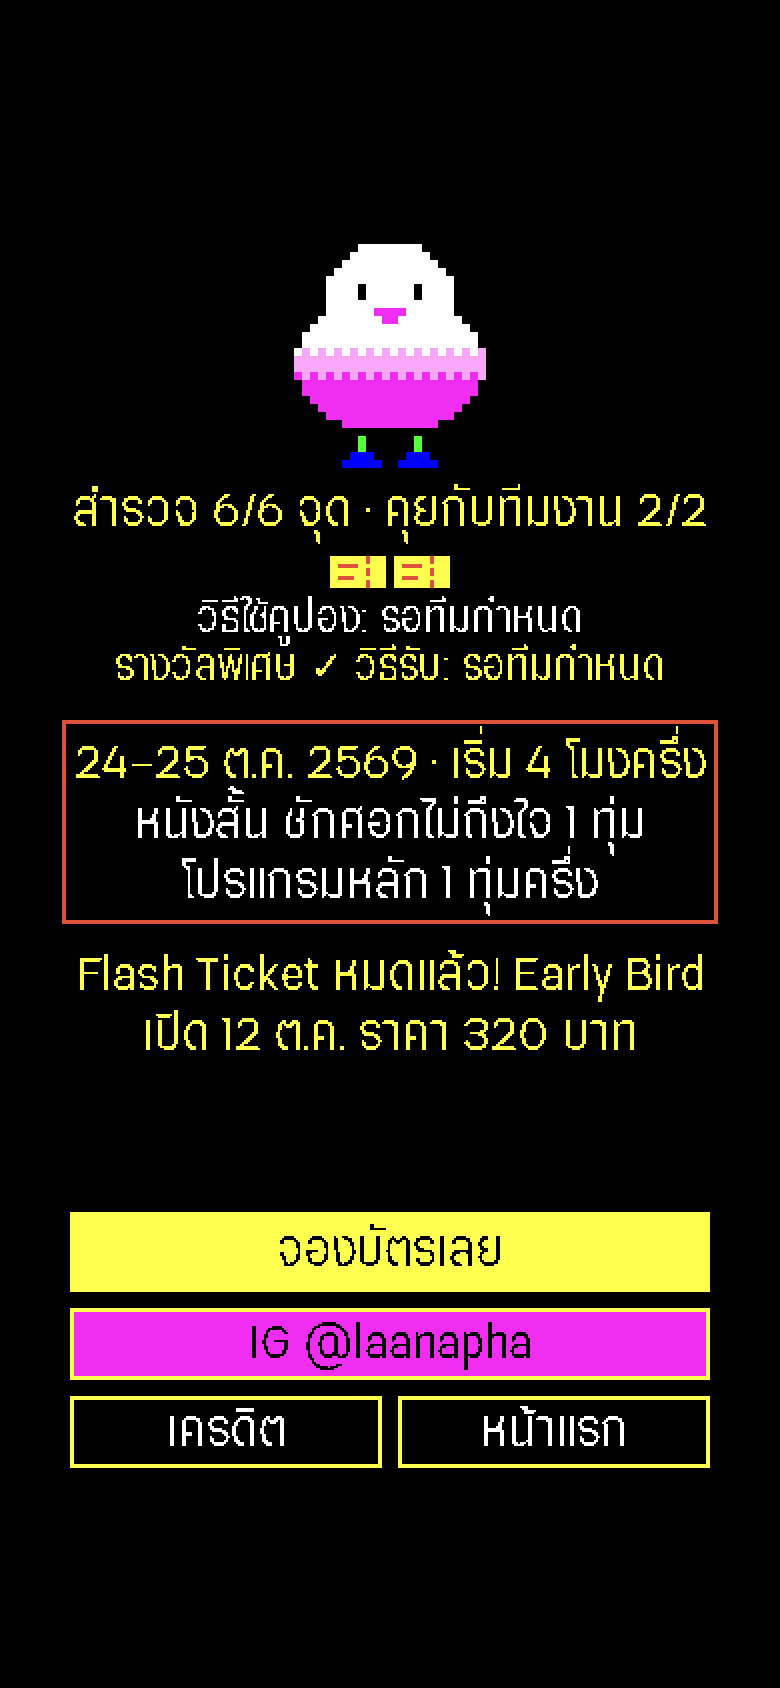
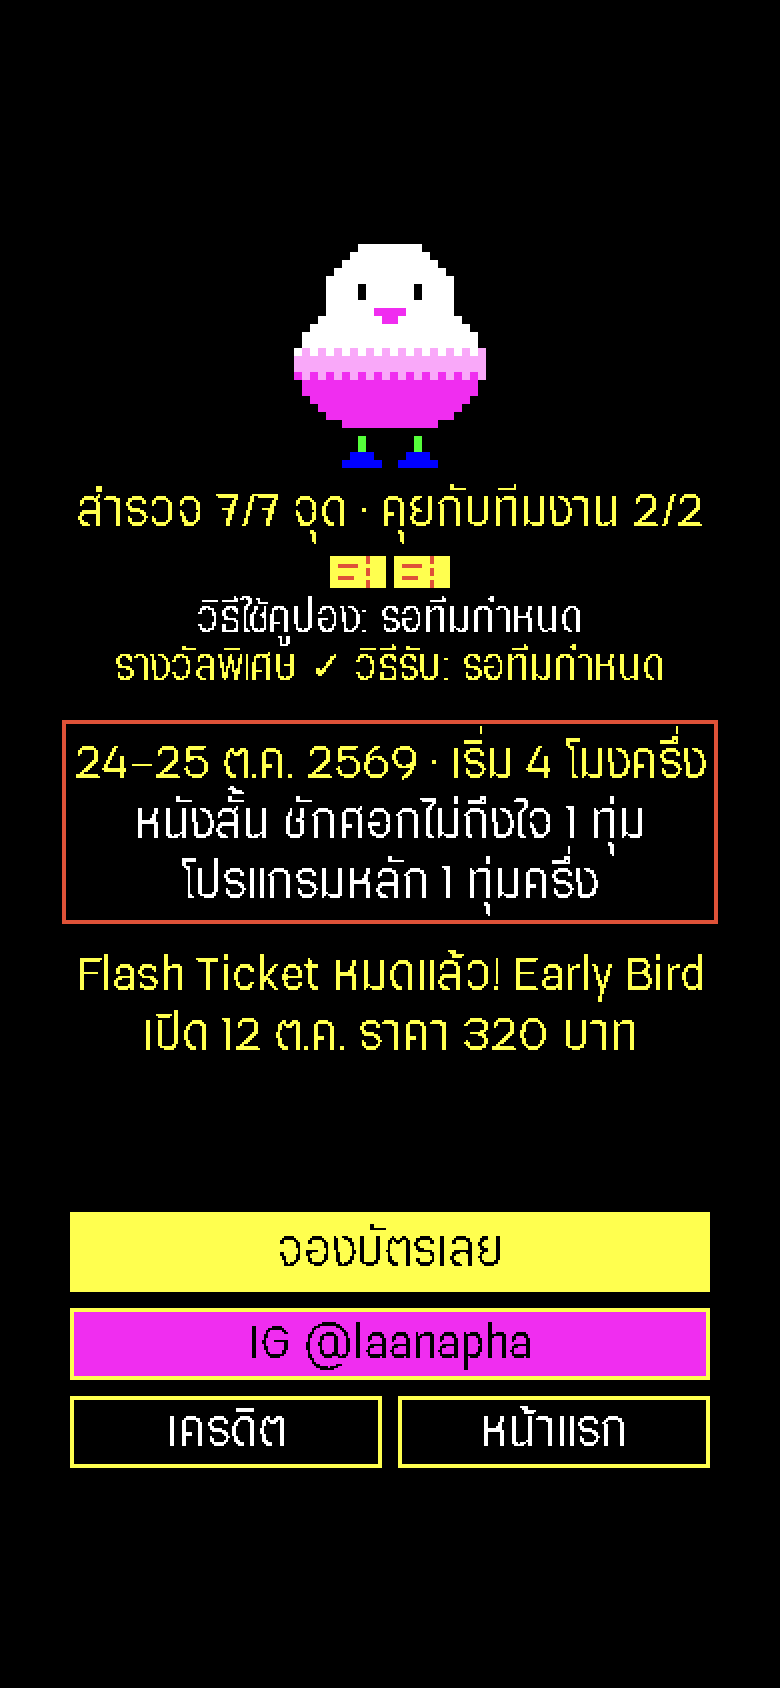
Scene 3: a seventh place to explore, ซุ้มผี in front of the ghost stalls (owner)
Claude-Session: https://claude.ai/code/session_01Fe5UomiUQN5FvRh91y8j5k

diff --git a/src/scene3/data/script.js b/src/scene3/data/script.js
@@ -18,7 +18,7 @@ export const WELCOME_PAGES = [
 export const AFTER_WELCOME_BANNER = 'เปิดรายการภารกิจได้ที่ปุ่ม ภารกิจ';
 export const ZOOM_HINT = ['กด + / -', 'ซูมเข้า-ออก'];
 
-// ---- Goals: six places (final names and facts) ----
+// ---- Goals: seven places (final names and facts; ซุ้มผี added by the owner) ----
 export const GOALS = [
   { id: 'lane', name: 'ซอยทางเข้า', line: 'ซุ้มจองพื้นที่เปิดซุ้มกับทีมงาน' },
   { id: 'shops', name: 'แถวร้านค้าและ Photo Booth', line: 'มินิมาร์ท เครื่องดื่ม พิซซ่า จุดถ่ายรูป และซุ้ม Rotary' },
@@ -26,12 +26,13 @@ export const GOALS = [
   { id: 'tables', name: 'โซนโต๊ะจัดเลี้ยง', line: 'นั่งกินข้าวพร้อมชมบรรยากาศงาน' },
   { id: 'cinema', name: 'จอหนังกลางแปลงและบีนแบ็ก', line: 'หนังสั้นเริ่ม 1 ทุ่ม โปรแกรมหลักเริ่ม 1 ทุ่มครึ่ง' },
   { id: 'haunted', name: 'บ้านเมื่อคืนผมนอนไม่หลับ', line: 'อยู่ฝั่งตรงข้ามคลองบางหลวง กล้าเข้าไหม?' },
+  { id: 'ghosts', name: 'ซุ้มผี', line: 'ผีหน้าซุ้มรอทักทายอยู่ ลองคุยดูสิ' },
 ];
 
 // ---- HUD and banners ----
-export const chipText = (goals, vouchers) => `สำรวจ ${goals}/6 · คูปอง ${vouchers}`;
+export const chipText = (goals, vouchers) => `สำรวจ ${goals}/${GOALS.length} · คูปอง ${vouchers}`;
 export const CHIP_DONE = 'ครบแล้ว! ไปที่ทางออก';
-export const exitTooEarly = (goals) => `ยังสำรวจไม่ครบ (${goals}/6)`;
+export const exitTooEarly = (goals) => `ยังสำรวจไม่ครบ (${goals}/${GOALS.length})`;
 export const VOUCHER_BANNER = 'ได้คูปองส่วนลดค่าบัตร!';
 export const PRIZE_BANNER = 'คุยครบทุกคนแล้ว! ได้รางวัลพิเศษ โฮะๆ';
 export const PRIZE_CHECK = 'รางวัลพิเศษ ✓';
@@ -88,11 +89,11 @@ export const NPC_LINES = {
 };
 
 // ---- Ending (final) ----
-export const summaryText = (goals, talked, targets) => `สำรวจ ${goals}/6 จุด · คุยกับทีมงาน ${talked}/${targets}`;
+export const summaryText = (goals, talked, targets) => `สำรวจ ${goals}/${GOALS.length} จุด · คุยกับทีมงาน ${talked}/${targets}`;
 export const voucherHowTo = (how) => `วิธีใช้คูปอง: ${how}`;
 export const prizeHowTo = (how) => `รางวัลพิเศษ ✓ วิธีรับ: ${how}`;
 export const ENDING_BUTTONS = { book: 'จองบัตรเลย', instagram: 'IG @laanapha', credits: 'เครดิต', home: 'หน้าแรก' };
-// ---- All six places explored (owner): thank you, then three pages (book -> IG -> map), then end or keep talking ----
+// ---- All places explored (owner): thank you, then three pages (book -> IG -> map), then end or keep talking ----
 export const THANKS = {
   title: 'ขอบคุณที่เล่นเกมของเรา!',
   pages: [

diff --git a/tests/scene3.test.js b/tests/scene3.test.js
@@ -202,13 +202,13 @@ test('special prize only after the last target, after its voucher', () => {
   assert.equal(w.progress.prize, true);
 });
 
-test('goals: six zones tick once each; the exit ends only when all are done', () => {
+test('goals: seven zones (ซุ้มผี added) tick once each; the exit ends only when all are done', () => {
   const w = new World({ skipWelcome: true });
   // early exit
   w.player.x = L.EXIT.rect[0] - 4;
   w.player.y = L.START.y;
   let ev = w.update(0.2, { dir: { x: 1, y: 0 } });
-  assert.ok(ev.some((e) => e.type === 'exitEarly' && e.text === 'ยังสำรวจไม่ครบ (0/6)'));
+  assert.ok(ev.some((e) => e.type === 'exitEarly' && e.text === 'ยังสำรวจไม่ครบ (0/7)'));
   for (const g of GOALS) assert.equal(w.progress.enterZone(g.id).length >= 1, true);
   assert.deepEqual(w.progress.enterZone('lane'), []);
   assert.equal(w.progress.allGoals, true);
@@ -218,7 +218,23 @@ test('goals: six zones tick once each; the exit ends only when all are done', ()
   assert.ok(ev.some((e) => e.type === 'exit'));
 });
 
-test('after all six places: allGoals once, and finish() ends without the exit walk', () => {
+test('ซุ้มผี: the seventh place, in front of the ghost stalls, reached before the exit', () => {
+  assert.deepEqual(GOALS.map((g) => g.id), ['lane', 'shops', 'desk', 'tables', 'cinema', 'haunted', 'ghosts']);
+  assert.equal(GOALS[6].name, 'ซุ้มผี');
+  const z = L.ZONES.ghosts;
+  for (const s of L.GHOST_STALLS) assert.ok(s.x >= z[0] && s.x <= z[2], `stall ${s.number} is along the zone`);
+  assert.ok(z[2] < L.EXIT.rect[0], 'the zone stops before the exit');
+  const w = new World({ skipWelcome: true });
+  const ev = [];
+  for (let i = 0; i < 40 && !w.progress.goals.has('ghosts'); i++) {
+    w.player.x = (z[0] + z[2]) / 2;
+    w.player.y = (z[1] + z[3]) / 2;
+    ev.push(...w.update(0.05, {}));
+  }
+  assert.ok(ev.some((e) => e.type === 'goal' && e.goal.id === 'ghosts'));
+});
+
+test('after all seven places: allGoals once, and finish() ends without the exit walk', () => {
   const w = new World({ skipWelcome: true });
   assert.deepEqual(w.finish(), [], 'no early finish');
   const ev = GOALS.flatMap((g) => w.progress.enterZone(g.id));

diff --git a/src/scene3/scenes/HudScene.js b/src/scene3/scenes/HudScene.js
@@ -296,7 +296,7 @@ export class HudScene extends Phaser.Scene {
       }
       if (e.type === 'allGoals') {
         this.world.stopAuto();
-        this.time.delayedCall(1200, () => this.openThanks()); // after a moment on the sixth place's banner
+        this.time.delayedCall(1200, () => this.openThanks()); // after a moment on the last place's banner
       }
       if (e.type === 'prize') this.showBanner([PRIZE_BANNER]);
       if (e.type === 'exitEarly') this.showBanner([e.text]);
@@ -341,8 +341,8 @@ export class HudScene extends Phaser.Scene {
     add(W / 2, 32, LABELS.missions, { align: 'center', color: '#FFFF4F' });
     GOALS.forEach((goal, i) => {
       const done = w.progress.goals.has(goal.id);
-      add(14, 52 + i * 22, done ? '✓' : '·', { color: done ? '#FFFF4F' : '#888888' });
-      add(26, 52 + i * 22, goal.name, { color: done ? '#FFFFFF' : '#AAAAAA' });
+      add(14, 50 + i * 19, done ? '✓' : '·', { color: done ? '#FFFF4F' : '#888888' });
+      add(26, 50 + i * 19, goal.name, { color: done ? '#FFFFFF' : '#AAAAAA' });
     });
     add(14, 186, chipText(w.progress.goalCount, w.progress.vouchers), { color: '#FFFFFF' });
     if (w.progress.prize) add(14, 204, PRIZE_CHECK, { color: '#FFFF4F' });
@@ -358,7 +358,7 @@ export class HudScene extends Phaser.Scene {
   }
 
   /**
-   * All six places explored: a small card that pages book -> IG -> map (arrows, dots, swipe),
+   * All places explored: a small card that pages book -> IG -> map (arrows, dots, swipe),
    * with จบเกม / คุยกับทีมงานต่อ always at the bottom.
    */
   openThanks() {

diff --git a/src/scene3/logic/world.js b/src/scene3/logic/world.js
@@ -1,7 +1,7 @@
 // Scene 3 simulation, no Phaser: player movement with the real collision, walking
 // characters, talk targets, goal zones, exit, autopilot tour and the opening welcome.
 // The Phaser scene feeds input and draws the state; tests drive it directly.
-import { boxFree, ZONES, EXIT, START, WELCOME, dist, inZone, R, DESK, LANE_STALLS, SHOPS, TABLES, BAND, HOUSE_BASE, spread } from './layout.js';
+import { boxFree, ZONES, EXIT, START, WELCOME, dist, inZone, R, DESK, LANE_STALLS, SHOPS, TABLES, BAND, HOUSE_BASE, GHOST_SPOTS, spread } from './layout.js';
 import { NPCS, STALL_ROW, TALK_TARGETS, GHOSTS } from './npcs.js';
 import { Progress } from './progress.js';
 import { Welcome } from './welcome.js';
@@ -35,6 +35,7 @@ export const TOUR = [
   { name: 'cinema', p: spread({ x: 150, y: 128 }) },
   { name: 'haunted', p: { x: spread(HOUSE_BASE).x, y: R.river[3] + 6 } },
   { name: 'band', p: { x: BAND.rug.x, y: BAND.rug.y + 2 } },
+  { name: 'ghosts', p: { x: GHOST_SPOTS[2].x - 8, y: GHOST_SPOTS[2].y + 8 } },
   { name: 'soi', p: { x: START.x - 30, y: START.y } },
 ];
 

diff --git a/src/scene3/scenes/EndingScene.js b/src/scene3/scenes/EndingScene.js
@@ -1,5 +1,5 @@
 // Scene 3 ending (spec 6.6) and credits. Design space 180 x 320.
-// Ending: the player's character, "สำรวจ n/6 จุด · คุยกับทีมงาน k/n", vouchers as ticket
+// Ending: the player's character, "สำรวจ n/7 จุด · คุยกับทีมงาน k/n", vouchers as ticket
 // icons, the event card, the ticket phase line by date, and four buttons: จองบัตรเลย,
 // Instagram, เครดิต, หน้าแรก. Links open in a new tab.
 import Phaser from 'phaser';

diff --git a/src/scene3/logic/layout.js b/src/scene3/logic/layout.js
@@ -196,6 +196,7 @@ export const ZONES = {
   tables: spreadRect([110, row(13) + 8, 222, row(25) + 6]),
   cinema: spreadRect([col(2), 86, col(24), row(11)]),
   haunted: spreadRect([HOUSE_BASE.x - 40, row(5), HOUSE_BASE.x + 40, 86]),
+  ghosts: spreadRect([298, row(46), 420, row(47) - 2]), // the soi's north half in front of the ghost stalls (stops short of the exit)
 };
 export const EXIT = { rect: [WORLD.w - 14, R.soi[1], WORLD.w, R.soi[3]] };
 

diff --git a/src/scene3/logic/progress.js b/src/scene3/logic/progress.js
@@ -1,4 +1,4 @@
-// Scene 3 progress: six goals (main objective), talks and vouchers (optional), the
+// Scene 3 progress: seven goals (main objective), talks and vouchers (optional), the
 // special prize after talking to everyone. Pure; the scene shows the returned events.
 import { GOALS } from '../data/script.js';
 import { VOUCHER, SPECIAL_PRIZE } from '../config.js';

diff --git a/SCENE3.md b/SCENE3.md
@@ -1,7 +1,7 @@
 # Scene 3: event exploration and the ending
 
 The player explores a top-down map of the real event site (ลานนภา Halloween Fest, 24-25 Oct 2569),
-ticks six places, talks to the team for discount vouchers, then leaves by the soi to the ending
+ticks seven places (ซุ้มผี, in front of the ghost stalls on the soi, added by the owner), talks to the team for discount vouchers, then leaves by the soi to the ending
 (summary, book tickets, follow IG) and the credits. Phaser 4, like scene 2; all game logic is in plain
 modules that run in Node.
 
@@ -69,7 +69,7 @@ remain; the talk targets are Jayimpacts and the stall row (two vouchers, then th
 removed characters' lines are still in `NPC_LINES` (`src/scene3/data/script.js`); the removed entries are
 in git history (commit before "only people and the player").
 
-## After all six places
+## After all seven places
 
 A small card opens (`THANKS` in `src/scene3/data/script.js`): ขอบคุณที่เล่นเกมของเรา! and three pages,
 turned with the arrows, a swipe or the arrow keys: จองบัตร (`URLS.booking`) -> IG laanapha with the IG logo
@@ -91,8 +91,8 @@ While a dialogue, the checklist or this card is up, the game dims (55% black) so
 
 1. Add `{ id, name, line }` to `GOALS` in `src/scene3/data/script.js`.
 2. Add the zone rectangle (base units, spread) under the same id in `ZONES` in `layout.js`.
-3. Optionally add a tour stop to `TOUR` in `world.js`. The chip text says `n/6`; if the number of goals
-   changes, update `chipText`, `exitTooEarly` and `summaryText` in `script.js` (the 6 is in the owner's text).
+3. Optionally add a tour stop to `TOUR` in `world.js`. The counts in `chipText`, `exitTooEarly` and
+   `summaryText` follow `GOALS.length`.
 
 ## Text
 
